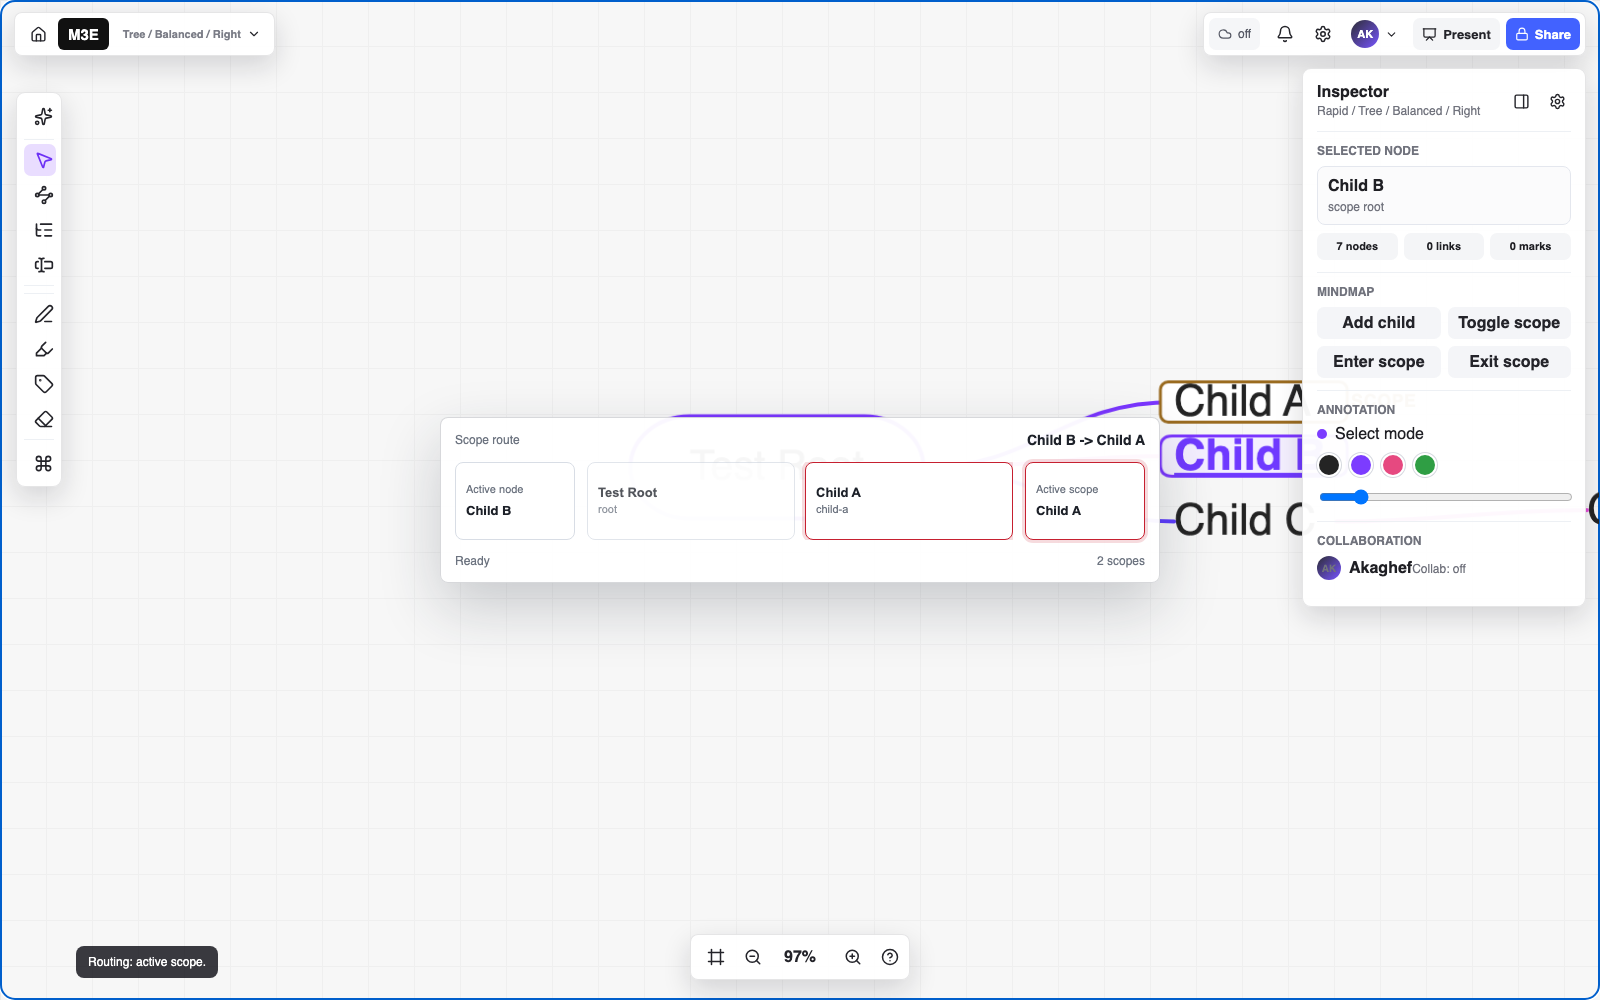
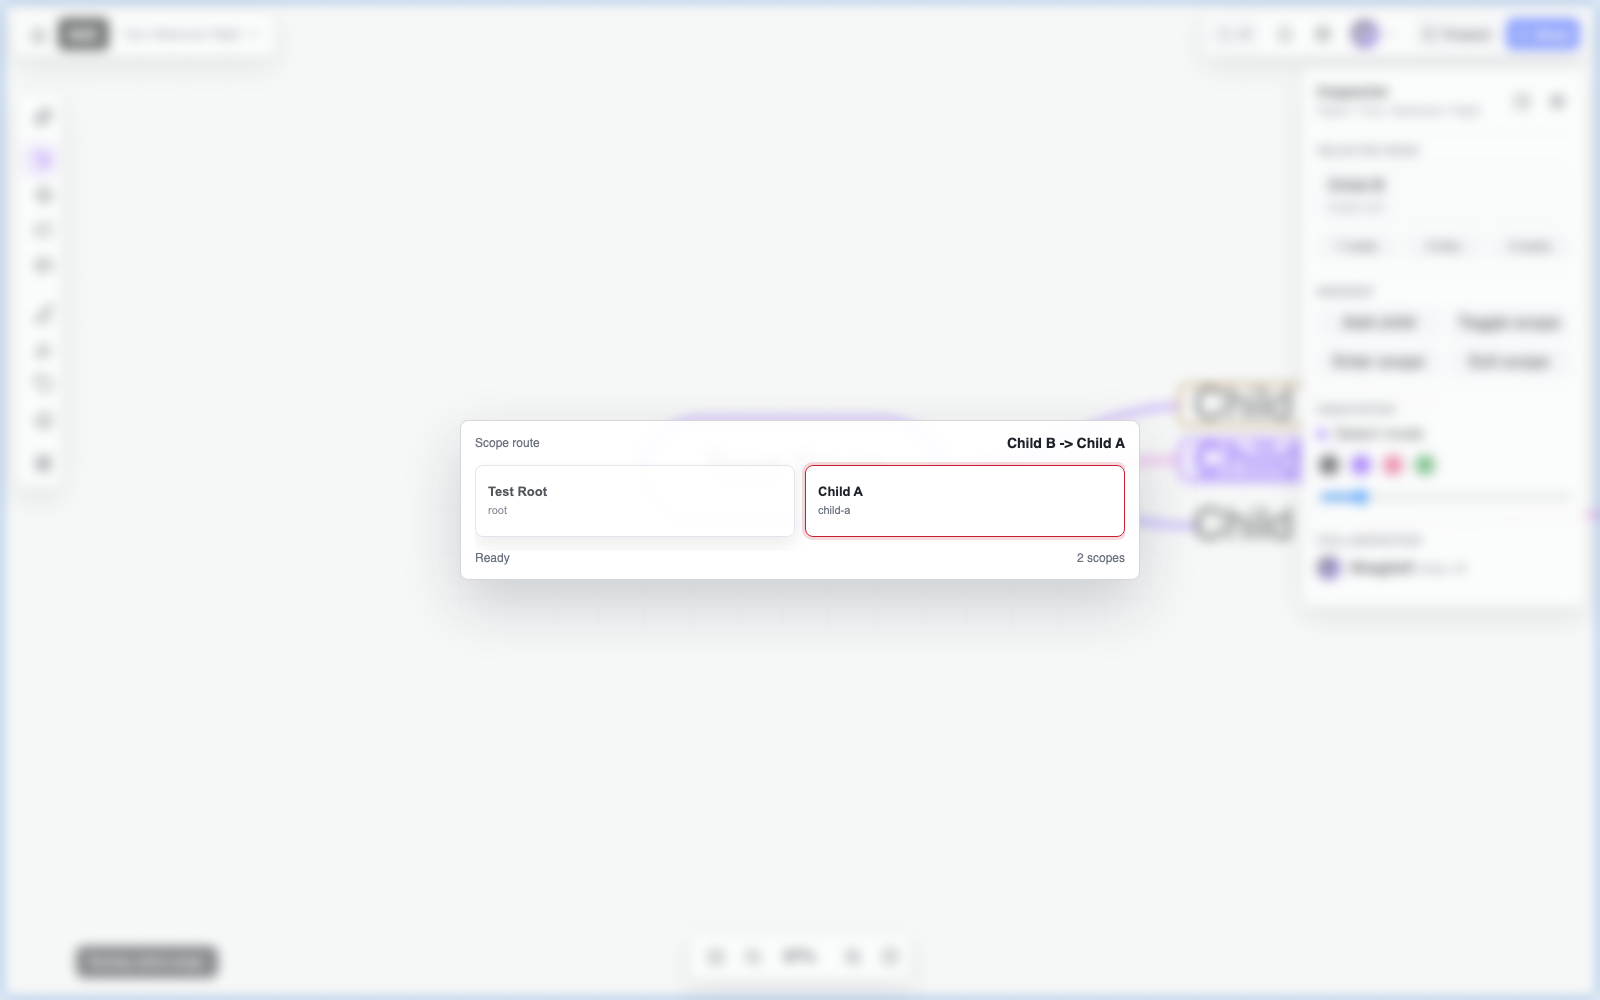
fix: make routing pan a held key mode

diff --git a/beta/src/browser/viewer.ts b/beta/src/browser/viewer.ts
@@ -132,6 +132,9 @@ let routingSwitcherOpen = false;
 let routingSwitcherLane: RoutingSwitcherLane = "scope";
 let routingScopeTargets: RoutingScopeTarget[] = [];
 let routingScopeIndex = 0;
+let routingPanKeyDown = false;
+let routingWheelCarryX = 0;
+let routingWheelCarryY = 0;
 
 function hideMarkdownPreview(): void {
   if (markdownPreviewPanelEl) markdownPreviewPanelEl.hidden = true;
@@ -12123,28 +12126,18 @@ function syncRoutingSwitcher(): void {
         <span>Scope route</span>
         <strong>${escapeHtml(nodeLabel)} -> ${escapeHtml(scopeLabel)}</strong>
       </div>
-      <div class="routing-switcher-grid">
-        <div class="routing-active-node ${routingSwitcherLane === "node" ? "is-active" : ""}">
-          <span>Active node</span>
-          <strong>${escapeHtml(nodeLabel)}</strong>
-        </div>
-        <div class="routing-scope-strip">
-          ${visibleRoutingScopeTargets().map((target) => {
-            const targetIndex = routingScopeTargets.findIndex((candidate) => candidate.id === target.id);
-            const isActive = targetIndex === routingScopeIndex;
-            const disabled = selectedNode ? !canDropUnderParent(selectedNode.id, target.id) : true;
-            return `
-              <button class="routing-scope-card ${isActive ? "is-active" : ""} ${disabled ? "is-disabled" : ""}" type="button" data-routing-scope-id="${escapeHtml(target.id)}" style="--scope-depth:${target.depth}">
-                <strong>${escapeHtml(target.label)}</strong>
-                <span>${escapeHtml(target.id)}</span>
-              </button>
-            `;
-          }).join("")}
-        </div>
-        <div class="routing-active-scope ${routingSwitcherLane === "scope" ? "is-active" : ""}">
-          <span>Active scope</span>
-          <strong>${escapeHtml(scopeLabel)}</strong>
-        </div>
+      <div class="routing-scope-strip">
+        ${visibleRoutingScopeTargets().map((target) => {
+          const targetIndex = routingScopeTargets.findIndex((candidate) => candidate.id === target.id);
+          const isActive = targetIndex === routingScopeIndex;
+          const disabled = selectedNode ? !canDropUnderParent(selectedNode.id, target.id) : true;
+          return `
+            <button class="routing-scope-card ${isActive ? "is-active" : ""} ${disabled ? "is-disabled" : ""}" type="button" data-routing-scope-id="${escapeHtml(target.id)}" style="--scope-depth:${target.depth}">
+              <strong>${escapeHtml(target.label)}</strong>
+              <span>${escapeHtml(target.id)}</span>
+            </button>
+          `;
+        }).join("")}
       </div>
       <div class="routing-switcher-foot">
         <span>${routeEnabled ? "Ready" : "Invalid target"}</span>
@@ -12198,9 +12191,34 @@ function moveRoutingNode(direction: -1 | 1): void {
   syncRoutingSwitcher();
 }
 
+function routePanMoveActiveNode(deltaX: number, deltaY: number): void {
+  const threshold = 48;
+  routingWheelCarryX += deltaX;
+  routingWheelCarryY += deltaY;
+
+  let moved = false;
+  while (Math.abs(routingWheelCarryY) >= threshold) {
+    selectBreadth(routingWheelCarryY > 0 ? 1 : -1);
+    routingWheelCarryY += routingWheelCarryY > 0 ? -threshold : threshold;
+    moved = true;
+  }
+  while (Math.abs(routingWheelCarryX) >= threshold) {
+    if (routingWheelCarryX > 0) {
+      selectChild();
+    } else {
+      selectParent();
+    }
+    routingWheelCarryX += routingWheelCarryX > 0 ? -threshold : threshold;
+    moved = true;
+  }
+
+  if (moved) {
+    setStatus("Routing pan: active node.");
+  }
+}
+
 function applyRoutingSwitcherRoute(): void {
   if (!map || !routingSwitcherOpen) {
-    openRoutingSwitcher("node");
     return;
   }
   const sourceId = viewState.selectedNodeId;
@@ -13556,6 +13574,10 @@ board.addEventListener("wheel", (event: WheelEvent) => {
   const deltaScale = event.deltaMode === 1 ? 40 : event.deltaMode === 2 ? 800 : 1;
   const deltaX = event.deltaX * deltaScale;
   const deltaY = event.deltaY * deltaScale;
+  if (routingPanKeyDown && !event.ctrlKey && !event.metaKey) {
+    routePanMoveActiveNode(deltaX, deltaY);
+    return;
+  }
   if (!event.ctrlKey && !event.metaKey) {
     viewState.cameraX -= deltaX * VIEWER_TUNING.pan.wheelFactor;
     viewState.cameraY -= deltaY * VIEWER_TUNING.pan.wheelFactor;
@@ -13813,12 +13835,12 @@ document.addEventListener("keydown", (event: KeyboardEvent) => {
     }
     if (event.key === "Tab") {
       event.preventDefault();
-      routingSwitcherLane = routingSwitcherLane === "scope" ? "node" : "scope";
+      routingSwitcherLane = "scope";
       syncRoutingSwitcher();
-      setStatus(routingSwitcherLane === "scope" ? "Routing: active scope." : "Routing: active node.");
+      setStatus("Routing: active scope.");
       return;
     }
-    if (!event.ctrlKey && !event.metaKey && !event.altKey && event.key.toLowerCase() === "r") {
+    if (!event.ctrlKey && !event.metaKey && !event.altKey && event.key === "Enter") {
       event.preventDefault();
       applyRoutingSwitcherRoute();
       return;
@@ -13851,7 +13873,12 @@ document.addEventListener("keydown", (event: KeyboardEvent) => {
 
   if (!event.ctrlKey && !event.metaKey && !event.altKey && !event.shiftKey && event.key.toLowerCase() === "r" && !viewState.reviewMode) {
     event.preventDefault();
-    applyRoutingSwitcherRoute();
+    if (!event.repeat) {
+      routingPanKeyDown = true;
+      routingWheelCarryX = 0;
+      routingWheelCarryY = 0;
+      setStatus("Routing pan: active node.");
+    }
     return;
   }
 
@@ -14417,6 +14444,17 @@ document.addEventListener("keydown", (event: KeyboardEvent) => {
       return;
     }
     selectChild();
+  }
+});
+
+document.addEventListener("keyup", (event: KeyboardEvent) => {
+  if (event.key.toLowerCase() !== "r") {
+    return;
+  }
+  if (routingPanKeyDown) {
+    routingPanKeyDown = false;
+    routingWheelCarryX = 0;
+    routingWheelCarryY = 0;
   }
 });
 

diff --git a/beta/viewer.css b/beta/viewer.css
@@ -2548,6 +2548,8 @@
         z-index: 96;
         display: grid;
         place-items: center;
+        background: rgba(246, 247, 249, 0.42);
+        backdrop-filter: blur(6px);
         pointer-events: none;
       }
 
@@ -2556,11 +2558,11 @@
       }
 
       .routing-switcher-panel {
-        width: min(720px, calc(100vw - 48px));
+        width: min(680px, calc(100vw - 48px));
         border: 1px solid rgba(31, 41, 55, 0.18);
         border-radius: 8px;
-        background: rgba(255, 255, 255, 0.96);
-        box-shadow: 0 24px 60px rgba(31, 41, 55, 0.22);
+        background: rgba(255, 255, 255, 0.92);
+        box-shadow: 0 24px 60px rgba(31, 41, 55, 0.2);
         padding: 14px;
         pointer-events: auto;
       }
@@ -2584,49 +2586,29 @@
         white-space: nowrap;
       }
 
-      .routing-switcher-grid {
-        display: grid;
-        grid-template-columns: 120px minmax(0, 1fr) 120px;
-        align-items: center;
-        gap: 12px;
-        padding: 14px 0;
-      }
-
-      .routing-active-node,
-      .routing-active-scope,
       .routing-scope-card {
-        min-height: 78px;
+        min-height: 72px;
         border: 1px solid #d8dde5;
         border-radius: 8px;
-        background: #fff;
-        padding: 10px;
+        background: rgba(255, 255, 255, 0.96);
+        box-shadow: 0 8px 18px rgba(31, 41, 55, 0.12);
+        padding: 10px 12px;
         text-align: left;
       }
 
-      .routing-active-node,
-      .routing-active-scope {
-        display: grid;
-        align-content: center;
-        gap: 6px;
-      }
-
-      .routing-active-node.is-active,
-      .routing-active-scope.is-active,
       .routing-scope-card.is-active {
         border-color: #c62030;
         box-shadow: 0 0 0 3px rgba(198, 32, 48, 0.16);
       }
 
-      .routing-active-node span,
-      .routing-active-scope span,
       .routing-scope-card span {
+        display: block;
+        margin-top: 5px;
         color: #6d7480;
         font-size: 11px;
         line-height: 1.25;
       }
 
-      .routing-active-node strong,
-      .routing-active-scope strong,
       .routing-scope-card strong {
         display: block;
         color: #1d2129;
@@ -2637,8 +2619,9 @@
       .routing-scope-strip {
         display: grid;
         grid-auto-flow: column;
-        grid-auto-columns: minmax(96px, 1fr);
+        grid-auto-columns: minmax(112px, 1fr);
         gap: 10px;
+        padding: 14px 0;
         overflow: hidden;
       }
 

diff --git a/beta/tests/visual/shortcuts.spec.js b/beta/tests/visual/shortcuts.spec.js
@@ -640,7 +640,20 @@ test.describe("Scope navigation", () => {
     await expectMetaContains(page, "scope: root");
   });
 
-  test("Shift+R opens scope routing and R routes active node to selected scope", async ({ page }) => {
+  test("R held routes trackpad movement into active-node movement without popup", async ({ page }) => {
+    await launchViewer(page);
+    await focusBoard(page);
+
+    await page.keyboard.down("r");
+    await page.mouse.wheel(0, 90);
+    await page.keyboard.up("r");
+    await waitForRender(page);
+
+    await expect(page.locator("#routing-switcher")).toBeHidden();
+    await expectMetaContains(page, "selected: Child A");
+  });
+
+  test("Shift+R opens scope routing and Enter routes active node to selected scope", async ({ page }) => {
     await launchViewer(page);
     await focusBoard(page);
 
@@ -658,7 +671,7 @@ test.describe("Scope navigation", () => {
     await expect(page.locator("#routing-switcher")).toBeVisible();
 
     await pressKey(page, "ArrowDown");
-    await pressKey(page, "r");
+    await pressKey(page, "Enter");
     await waitForRender(page);
     await expectStatusContains(page, "Routed Child B -> Child A");
 